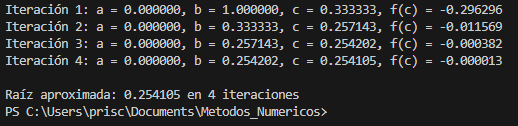
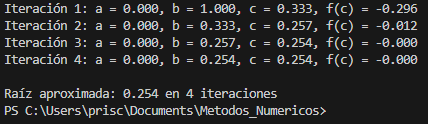
Corrección sobre el formato de resultados en el método de Bisección tema 2

diff --git a/Tema_2/Regla_Falsa/src/ReglaFalsa.java b/Tema_2/Regla_Falsa/src/ReglaFalsa.java
@@ -33,11 +33,11 @@ public class ReglaFalsa {
             double fc = f(c);
 
             // Mostrar detalles de la iteración actual
-            System.out.printf("Iteración %d: a = %.6f, b = %.6f, c = %.6f, f(c) = %.6f\n", i, a, b, c, fc);
+            System.out.printf("Iteración %d: a = %.3f, b = %.3f, c = %.3f, f(c) = %.3f\n", i, a, b, c, fc);
 
             // Verificar si se ha alcanzado una raíz aproximada con la tolerancia deseada
             if (Math.abs(fc) < tolerancia) {
-                System.out.printf("\nRaíz aproximada: %.6f en %d iteraciones\n", c, i);
+                System.out.printf("\nRaíz aproximada: %.3f en %d iteraciones\n", c, i);
                 return;
             }
 
@@ -50,7 +50,7 @@ public class ReglaFalsa {
         }
 
         // Si no se encuentra la raíz dentro del número máximo de iteraciones
-        System.out.printf("\nNo se alcanzó la tolerancia deseada después de %d iteraciones. Último valor: %.6f\n", maxIteraciones, c);
+        System.out.printf("\nNo se alcanzó la tolerancia deseada después de %d iteraciones. Último valor: %.3f\n", maxIteraciones, c);
     }
 
     //Método principal que inicializa los valores y llama al método encontrarRaiz()
